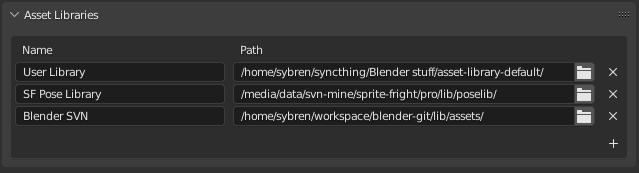
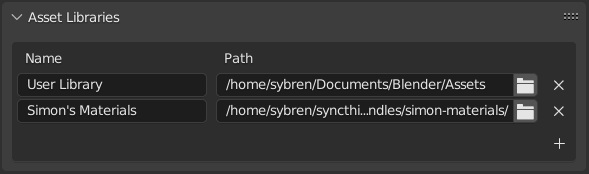
Preferences: Asset Libraries
git-svn-id: https://svn.blender.org/svnroot/bf-manual/trunk@8695 c4de1f47-6596-e411-a384-0024e86c2797

diff --git a/blender_docs/manual/editors/preferences/file_paths.rst b/blender_docs/manual/editors/preferences/file_paths.rst
@@ -100,7 +100,18 @@ I18n Branches
 Asset Libraries
 ===============
 
-Todo Asset Browsing.
+Name and on-disk directory paths of Asset Libraries. To make Blender aware of an
+asset library, add it to this list. The name is for your reference only, and
+will appear in asset library selectors. The path should point to the location of
+the asset library.
+
+.. figure:: /images/asset_browser-asset_library_preferences.png
+
+   Name & Location of asset libraries in the Preferences.
+
+To create a new asset library, just create an empty directory and add it to the
+list. Any asset from any blend file contained in that directory (or
+subdirectories thereof) will appear in the :doc:`/editors/asset_browser`.
 
 
 Known Limitations

diff --git a/blender_docs/manual/files/asset_libraries/introduction.rst b/blender_docs/manual/files/asset_libraries/introduction.rst
@@ -43,6 +43,7 @@ are meant for reuse.**
 
    For more info, see :ref:`asset-libraries-future-development`.
 
+.. _what-is-asset-library:
 
 What is an Asset Library?
 =========================
